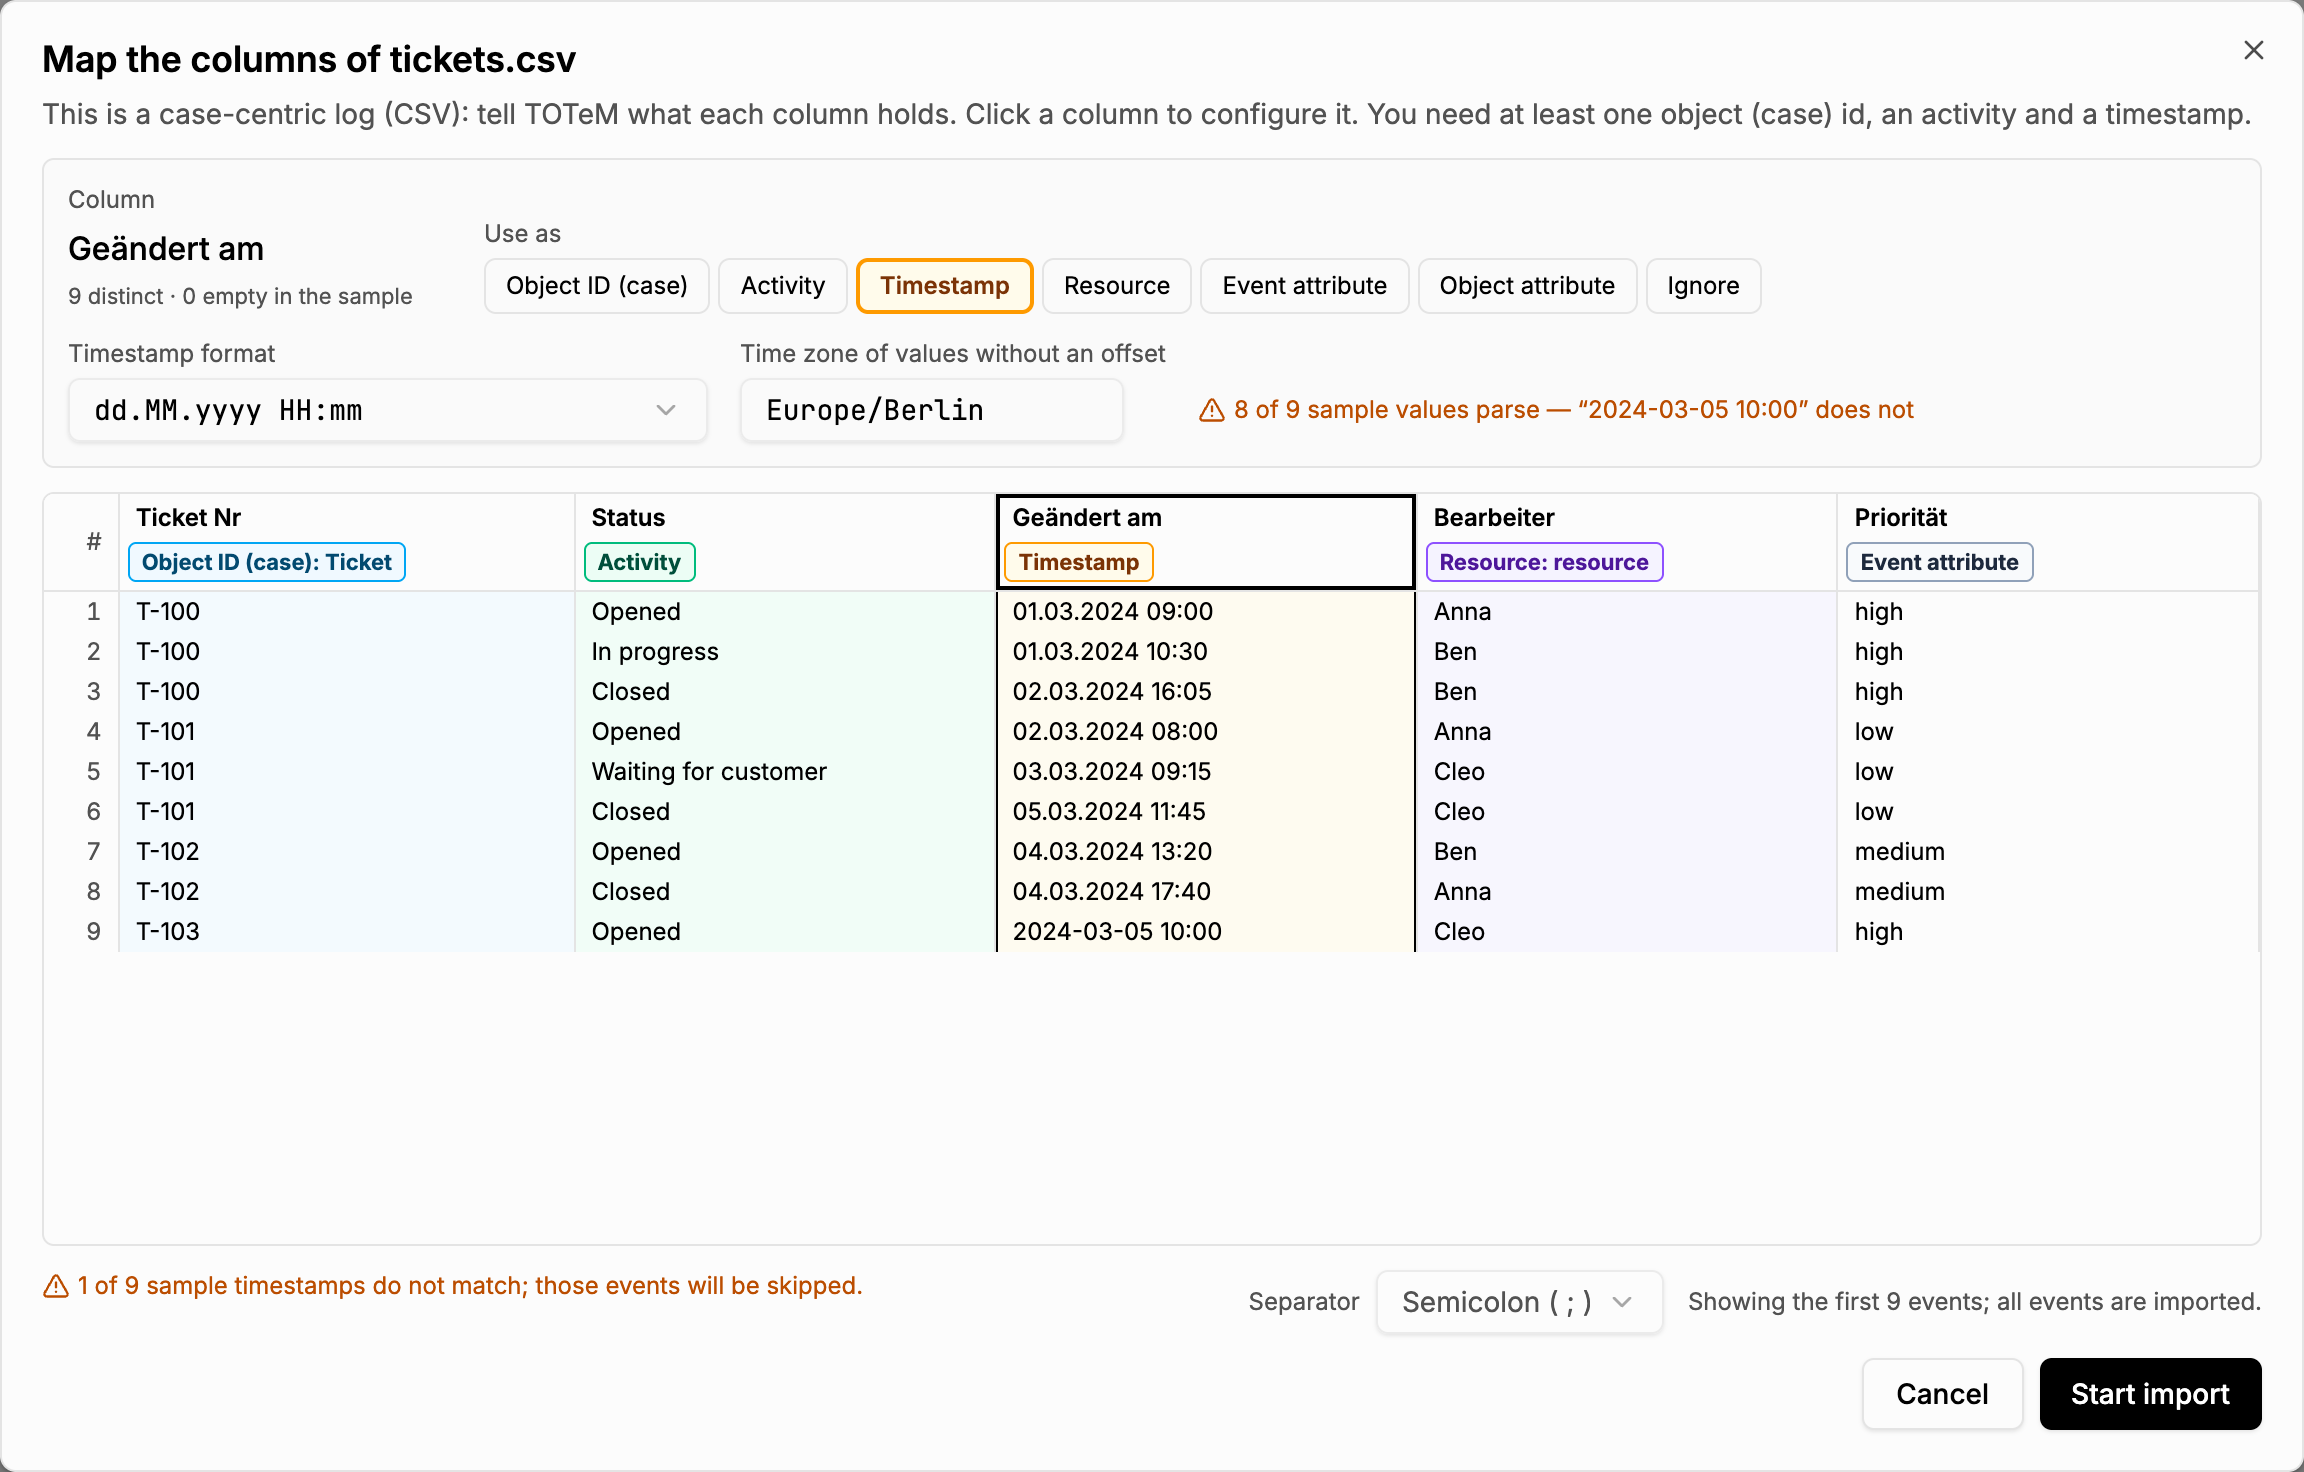
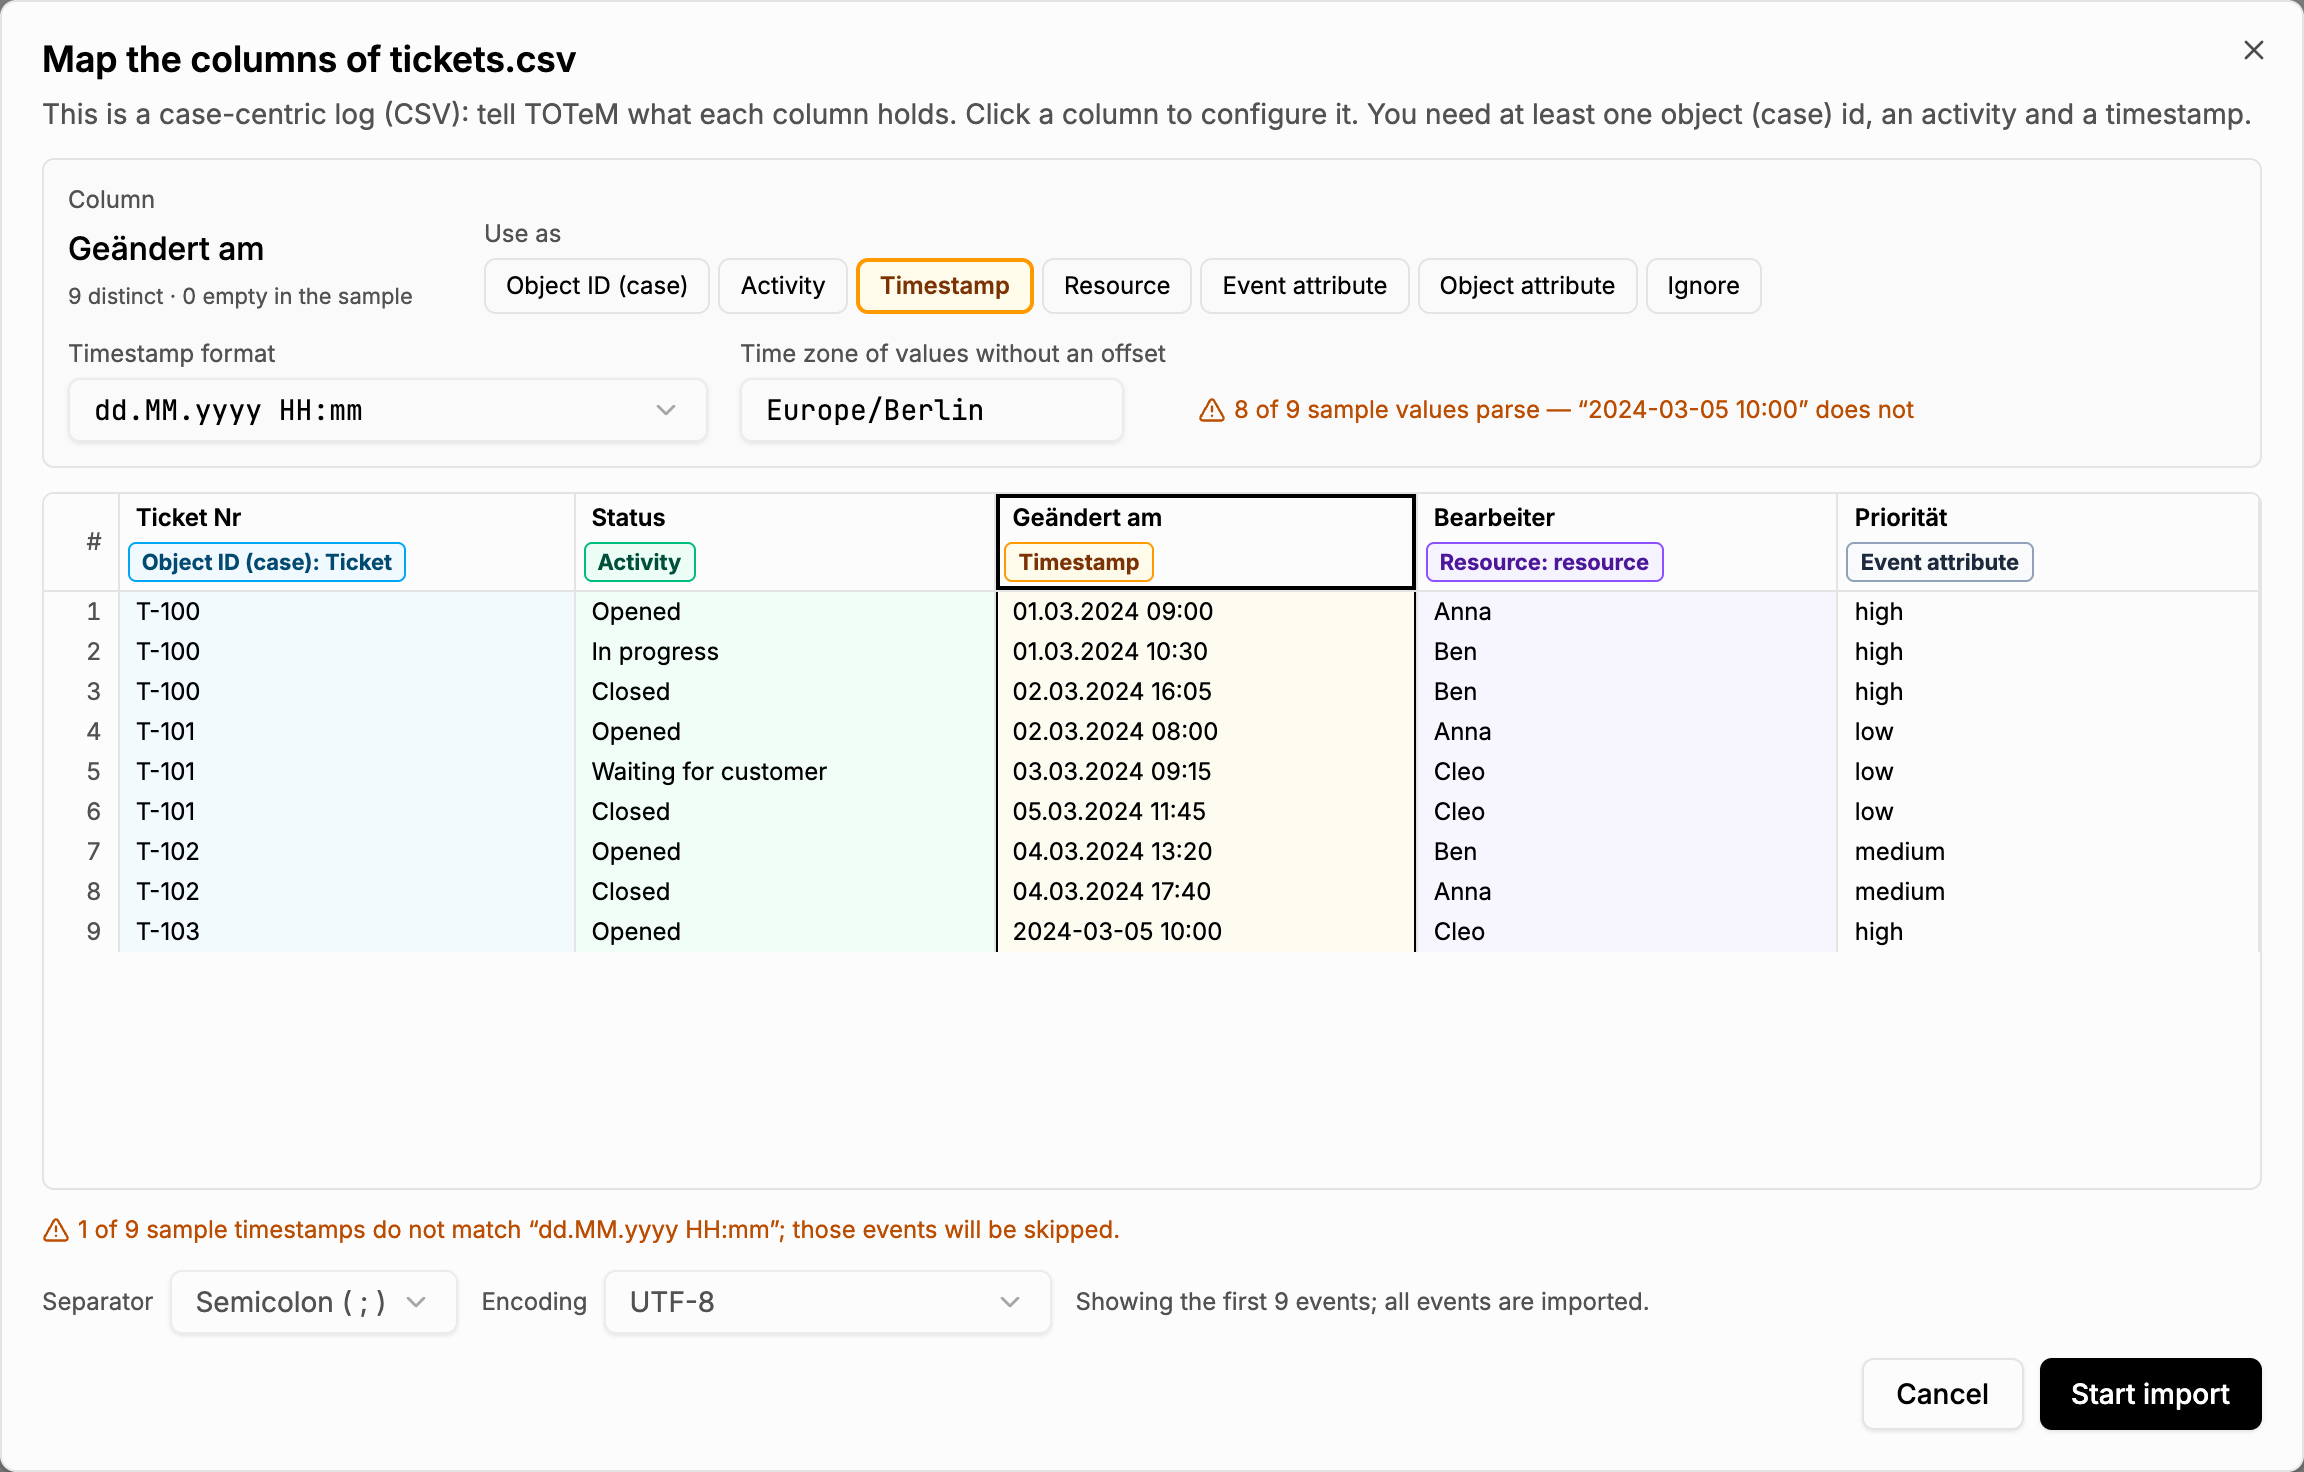
Document encodings, format detection and renamed columns
Part of #451.

Changed region(s): [[0.0, 0.8125, 0.4688, 0.9062], [0.4688, 0.875, 0.7188, 0.9062], [0.75, 0.875, 0.9688, 0.9062]]

diff --git a/docs/user-guide/case-centric-import.md b/docs/user-guide/case-centric-import.md
@@ -40,7 +40,7 @@ object.
 
 ## Timestamp formats
 
-Choose **Detect automatically** for ISO 8601 and the common formats, **Unix time** in seconds
+Choose **Detect automatically** to let TOTeM pick, **Unix time** in seconds
 or milliseconds, one of the listed patterns, or **Custom pattern...** to type your own. Patterns
 use the same letters as Disco and Java: `yyyy` year, `MM` month, `dd` day, `HH` hour (24h),
 `hh` hour (12h) with `a` for AM/PM, `mm` minutes, `ss` seconds, `SSS` fractions and `XXX` the
@@ -57,6 +57,17 @@ handled: 09:00 in Berlin is 08:00 UTC in March and 07:00 UTC in July. The defaul
 The zone applies only to values that carry no offset. A value like `2024-03-01T09:00:00+01:00`
 keeps its own offset, and Unix times are absolute, so the field is disabled for them.
 
+**Detect automatically** picks **one** format for the whole column, the one that fits most of
+the first rows, and the check line names it ("parse as dd/MM/yyyy HH:mm:ss"). It never reads one
+row day-first and the next month-first. Rows that do not fit the chosen format are skipped and
+reported.
+
+**Day or month first?** `03/04/2024` is 3 April in Europe and March 4 in the US. When every
+sample value fits both orders, the dialog says so, shows how one value would be read either way,
+and offers **Use that instead** to switch. TOTeM assumes day first until you choose otherwise.
+
+![An Excel export read as Windows-1252, with dates that fit both day orders](images/import-csv-encoding-ambiguous.png)
+
 The format is checked against the sample as you choose it, with the same parser the import
 uses. A format that fits none of the values blocks the import and names an example that does not
 match:
@@ -70,7 +81,20 @@ With the right one, every sample value parses and the dialog shows how the first
 ## CSV files
 
 The separator (`,` `;` tab or `|`) is detected from the header line. If it guessed wrong, change
-it next to the status line and the table is read again. Files are read as UTF-8.
+it next to the status line and the table is read again. The roles you already set are kept.
+
+The **encoding** is detected too: UTF-8, or Windows-1252 (what Excel on Windows saves as "CSV")
+when the file is not valid UTF-8, and UTF-16 for Excel's "Unicode text" export. If umlauts or
+accents look wrong in the table (`Pr�fung`), pick another encoding next to the separator.
+
+Cells of any length are fine, so long notes or comments import as well.
+
+Column names that differ only in upper and lower case (`Status` and `status`), or that match a
+built-in field (`Activity` kept as an attribute), cannot both be stored as they are. TOTeM stores
+the second one as `status_2` or `Activity_attr` and says so after the import.
+
+Events are kept in file order when they have the same timestamp. A log with dates only and no
+times still shows each case's steps in the order of the file.
 
 ## What gets skipped
 
